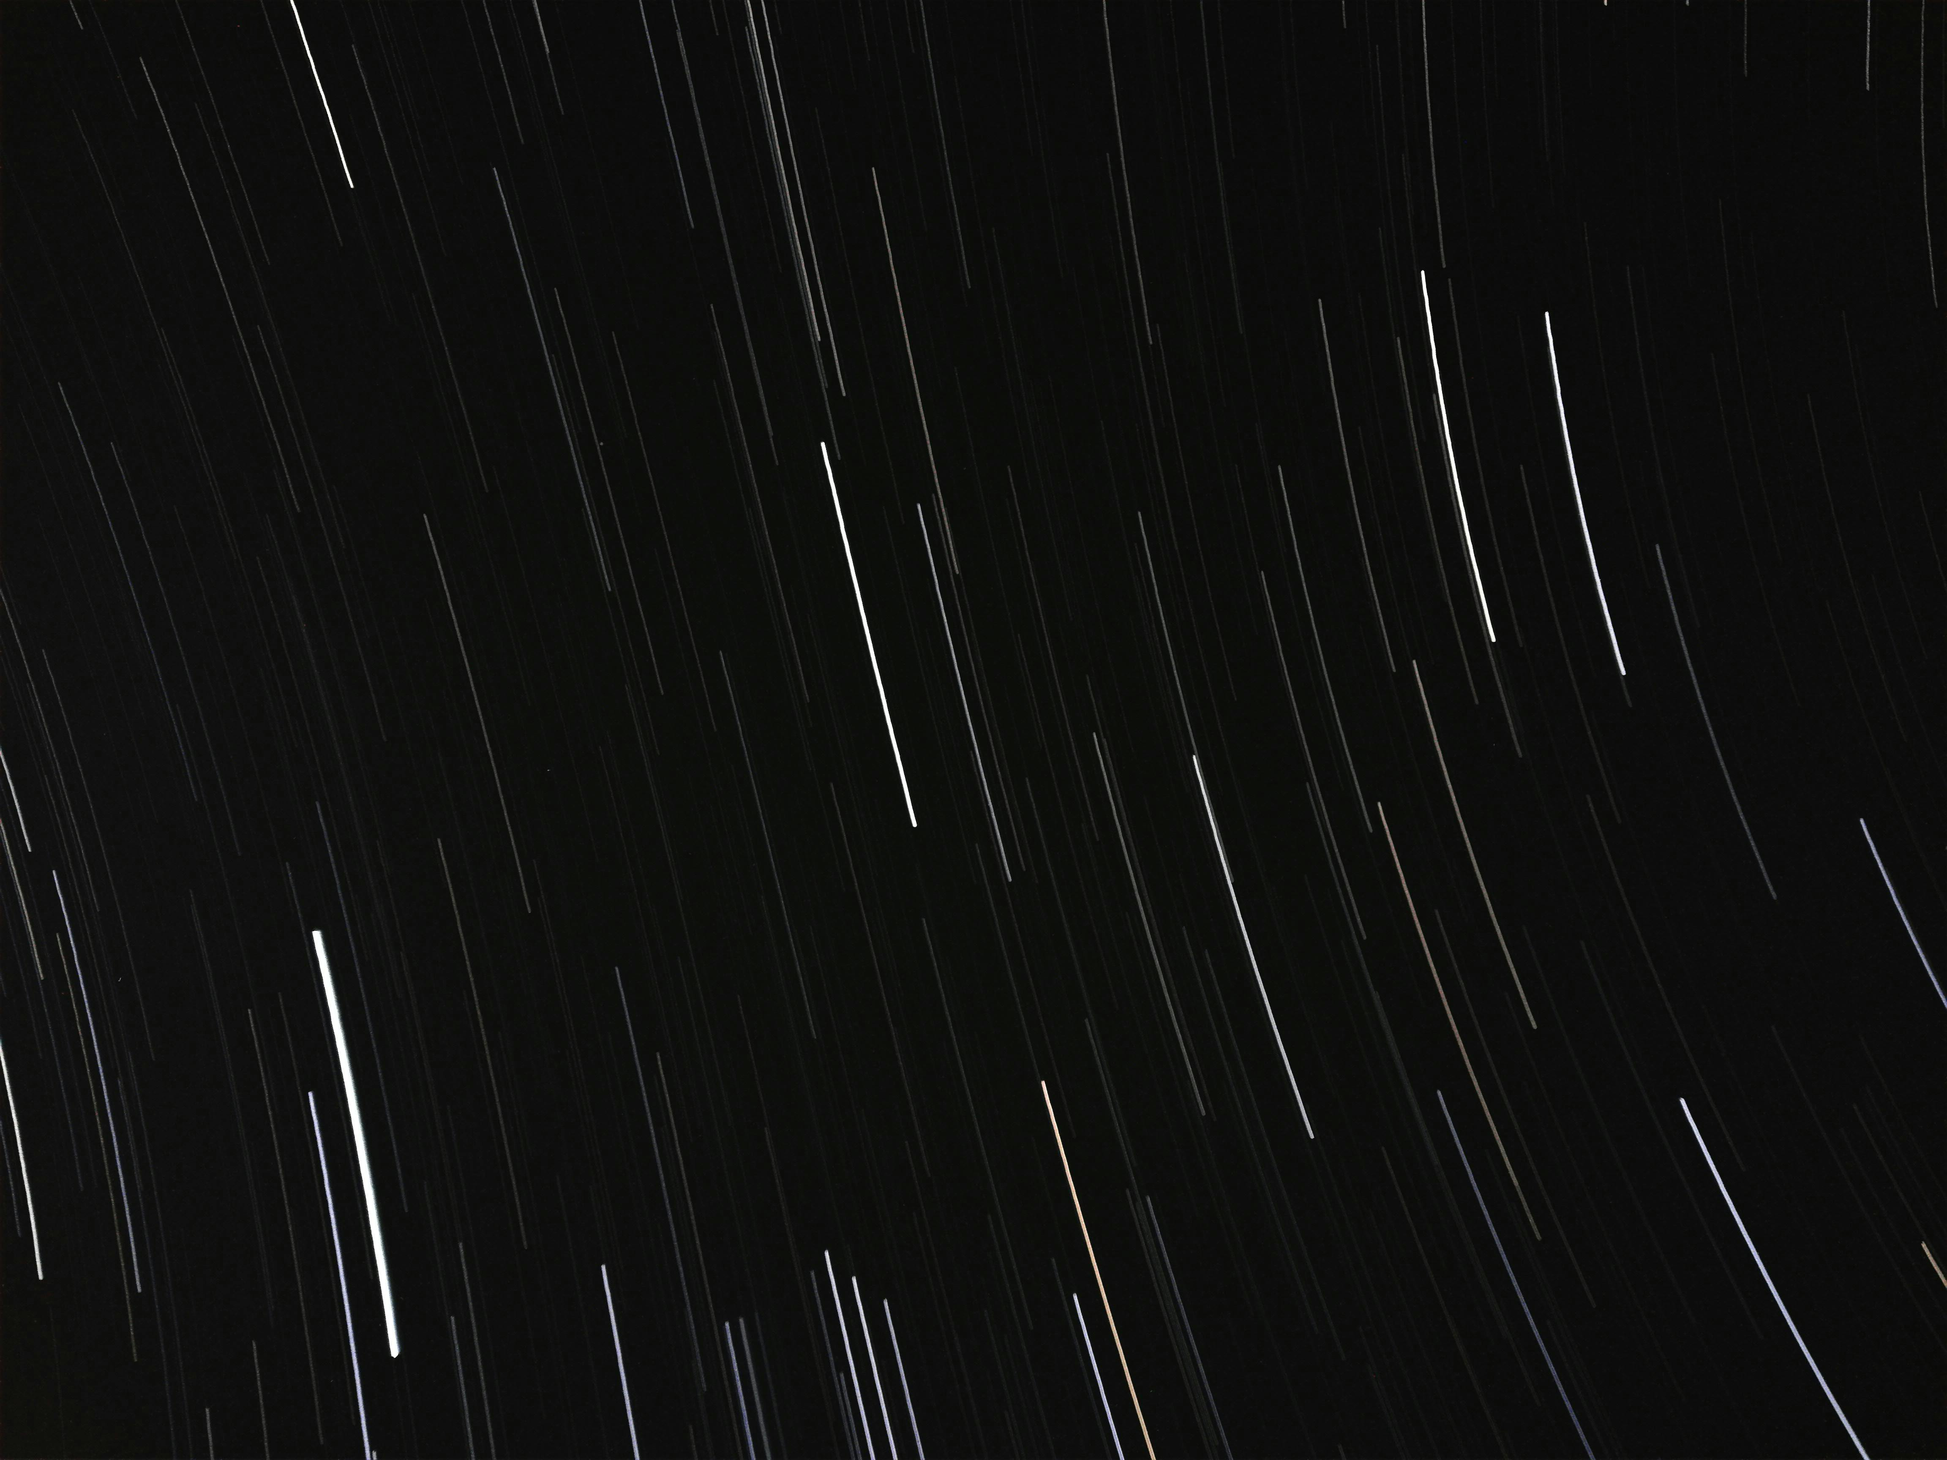
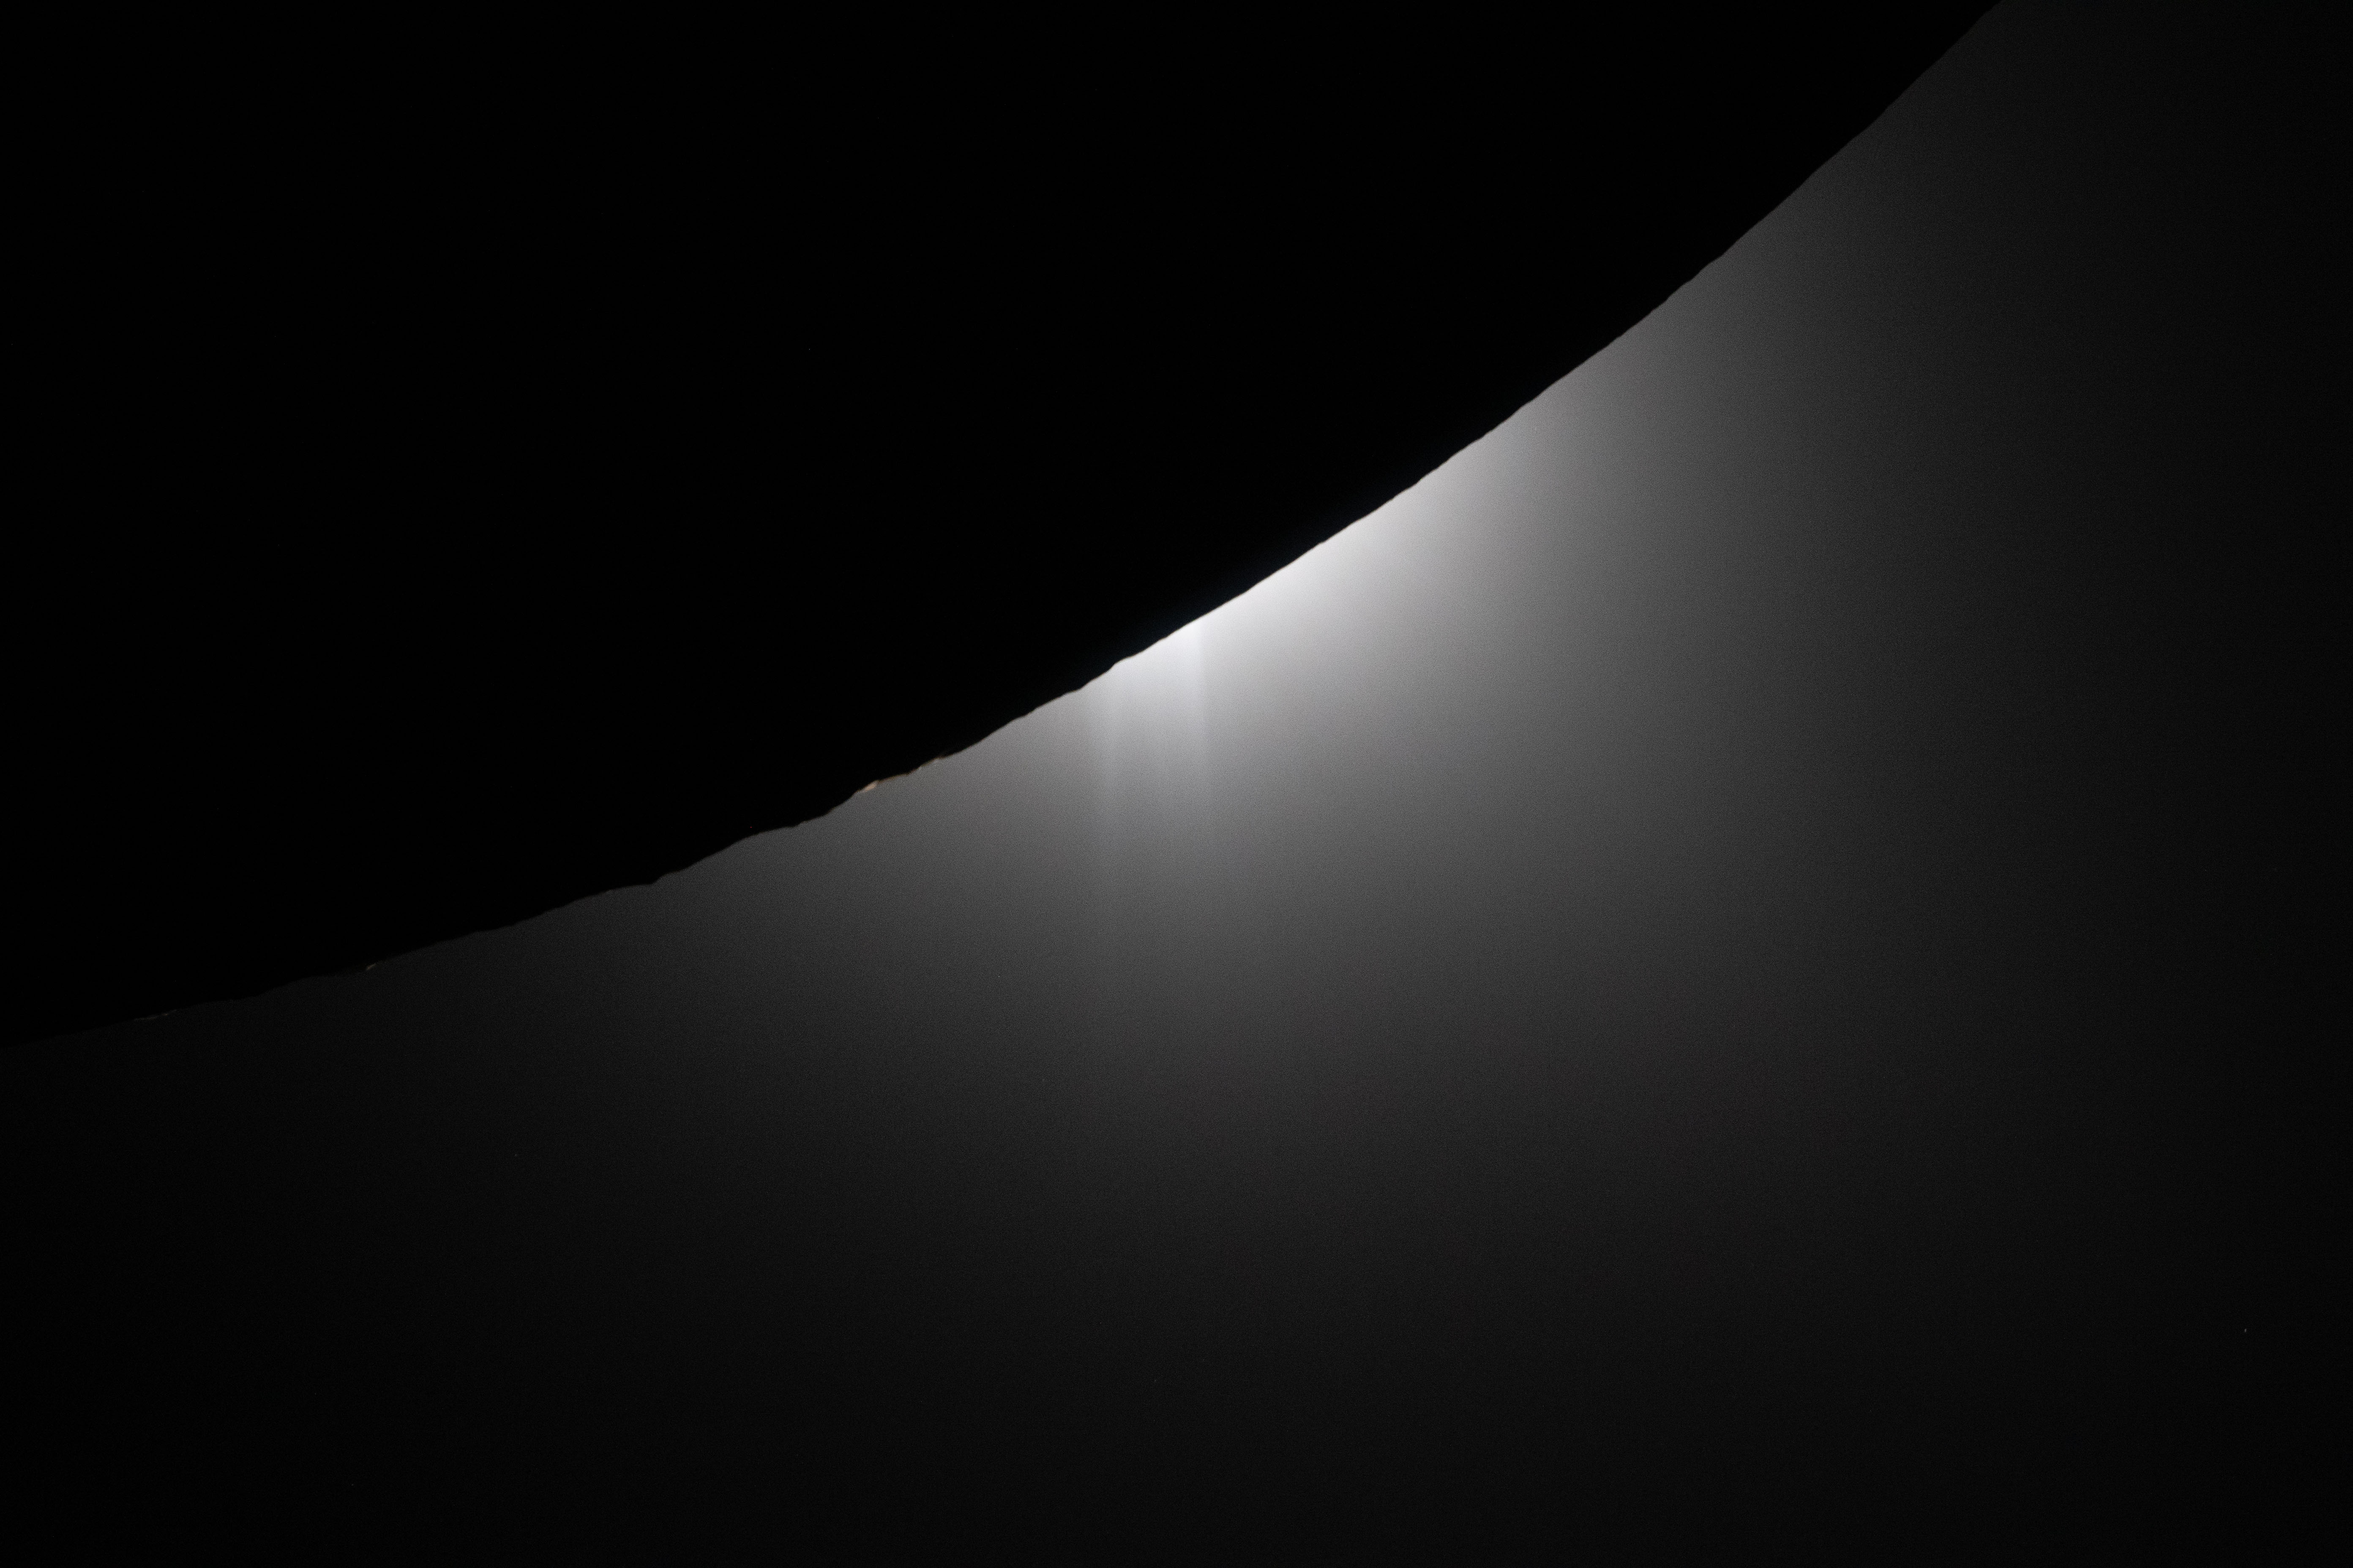
quickshell widgets and hyprpaper

diff --git a/quickshell/Workspaces.qml b/quickshell/Workspaces.qml
@@ -1,0 +1,62 @@
+import Quickshell
+import Quickshell.Wayland
+import Quickshell.Hyprland
+import QtQuick
+import QtQuick.Layouts
+
+Rectangle {
+  id: root
+  Layout.fillHeight: true
+  width: layout.implicitWidth + 24 
+  color: Theme.surface
+  border.width: 1.5
+  border.color: rectangleMouse.containsMouse ? Theme.love : Theme.surface
+  radius: 10
+
+  Behavior on border.color {
+    ColorAnimation {
+      duration: 400
+      easing.type: Easing.InOutQuad
+    }
+  }
+
+  MouseArea {
+    id: rectangleMouse
+    anchors.fill: parent
+    hoverEnabled: true
+  }
+
+  RowLayout {
+    id: layout
+    anchors.centerIn: parent
+    spacing: 12 
+
+    Repeater {
+      model: 5
+      Rectangle {
+        width: 10
+        height: 10
+        radius: 2
+        property var ws: Hyprland.workspaces.values.find(w => w.id === index + 1)
+        property bool isActive: Hyprland.focusedWorkspace?.id === (index + 1)
+        color: isActive ? Theme.foam : wsMouseArea.containsMouse ? Theme.rose : Theme.pine
+
+        Behavior on color {
+          ColorAnimation {
+            duration: 200
+            easing.type: Easing.InOutQuad
+          }
+        }
+
+        MouseArea {
+          id: wsMouseArea
+          anchors.fill: parent
+          anchors.margins: -5
+          cursorShape: Qt.PointingHandCursor
+          hoverEnabled: true
+          onClicked: Hyprland.dispatch("workspace " + (index + 1))
+        }
+      }
+    }
+  }
+}

diff --git a/quickshell/Theme.qml b/quickshell/Theme.qml
@@ -1,0 +1,27 @@
+// stolen and modified from https://github.com/DarthRellier/rose-shell/blob/main/Theme.qml
+
+pragma Singleton
+
+import Quickshell
+import QtQuick
+
+Singleton {
+    // Define Rosepine Colors
+    readonly property color base: "#191714"
+    readonly property color surface: "#1f1d2e"
+    readonly property color overlay: "#26233a"
+    readonly property color muted: "#6e6a86"
+    readonly property color subtle: "#908caa"
+    readonly property color text: "#e0def4"
+    readonly property color love: "#eb6f92"
+    readonly property color gold: "#f6c177"
+    readonly property color rose: "#ebbcba"
+    readonly property color pine: "#31748f"
+    readonly property color foam: "#9ccfd8"
+    readonly property color iris: "#c4a7e7"
+    readonly property color highlightLow: "#21202e"
+    readonly property color highlightMed: "#403d52"
+    readonly property color highlightHigh: "#524f67"
+
+    readonly property int margin: 10
+}

diff --git a/quickshell/Clock.qml b/quickshell/Clock.qml
@@ -1,0 +1,45 @@
+import Quickshell
+import Quickshell.Wayland
+import Quickshell.Hyprland
+import QtQuick
+import QtQuick.Layouts
+
+Rectangle {
+  Layout.fillHeight: true
+  width: clock.implicitWidth + 30 
+  color: Theme.surface
+  border.width: 1.5
+  border.color: rectangleMouse.containsMouse ? Theme.love : Theme.surface
+  radius: 10
+
+  Behavior on border.color {
+    ColorAnimation {
+      duration: 400
+      easing.type: Easing.InOutQuad
+    }
+  }
+
+  MouseArea {
+    id: rectangleMouse
+    anchors.fill: parent
+    hoverEnabled: true
+  }
+
+  Text {
+    id: clock
+    anchors.centerIn: parent
+    font.pointSize: 12
+    font.family: "AgaveNerdFontMono"
+    font.bold: true
+
+    text: Qt.formatDateTime(new Date(), "dd - HH:mm")
+    color: Theme.rose
+
+    Timer {
+      interval: 1000
+      running: true
+      repeat: true
+      onTriggered: clock.text = Qt.formatDateTime(new Date(), "dd - HH:mm")
+    }
+  }
+}

diff --git a/quickshell/shell.qml b/quickshell/shell.qml
@@ -1,0 +1,37 @@
+import Quickshell
+import Quickshell.Wayland
+import Quickshell.Hyprland
+import QtQuick
+import QtQuick.Layouts
+
+Scope {
+  Variants {
+    model: [Quickshell.screens[1]]
+
+    Bar {}
+  }
+
+  Variants {
+    model: [Quickshell.screens[0], Quickshell.screens[2]]
+
+    PanelWindow {
+      property var modelData
+      screen: modelData
+      anchors.top: true
+      anchors.left: true
+      anchors.right: true
+
+      implicitHeight: 32 
+      color: "transparent"
+
+      Rectangle {
+        anchors.fill: parent
+        anchors.topMargin: Theme.margin / 2
+        anchors.leftMargin: Theme.margin
+        anchors.rightMargin: Theme.margin
+        color: Theme.surface
+        radius: 10
+      }
+    } 
+  }
+}

diff --git a/quickshell/Bar.qml b/quickshell/Bar.qml
@@ -1,0 +1,37 @@
+import Quickshell
+import Quickshell.Wayland
+import Quickshell.Hyprland
+import QtQuick
+import QtQuick.Layouts
+
+PanelWindow {
+  id: root
+  property var modelData
+  screen: modelData
+  anchors.top: true
+  anchors.left: true
+  anchors.right: true
+
+  color: "transparent"
+  implicitHeight: 32
+
+  RowLayout {
+    anchors.fill: parent
+    anchors.topMargin: Theme.margin / 2
+    anchors.leftMargin: Theme.margin
+    anchors.rightMargin: Theme.margin
+    spacing: Theme.margin
+
+    Workspaces {
+      Layout.fillHeight: true
+    }
+
+    Item {
+      Layout.fillWidth: true
+    }
+
+    Clock {
+      Layout.fillHeight: true
+    }
+  }
+}
